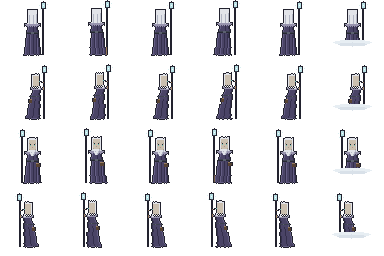
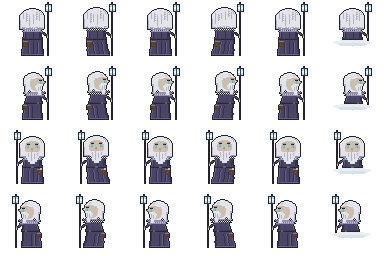
Rebuild the Sky Warden on vanilla chibi proportions
Playtests measured the old warden at about a third of the player's width
(the player's bare head alone is ~28px; the warden's whole coat was ~11px).
Rebuilt with the vanilla character construction: one big hair-mass
silhouette (26px head incl. curtains) with the face painted into it,
19px shoulders flaring to a 23px hem, 48px figure height, sleeve + hand
gripping the (scaled-up) cage lantern staff, stooped profiles, back-view
strand shadows — face and glow details applied after the outline pass.
Icon rebuilt as a chibi head-and-shoulders bust. Sheet layout unchanged
(6x4 walk grid), so no draw-code changes.

Completes v0.3.4: jar builds and the headless integration test passes
with the regenerated resources.

Claude-Session: https://claude.ai/code/session_01ECshWeaHvbw9WiaSm6LA5Y

diff --git a/tools/asset_generator/gen_npcs.py b/tools/asset_generator/gen_npcs.py
@@ -49,32 +49,32 @@ def _warden_frame(facing, step, swim=False):
 
     def draw_staff(px_):
         """Planted walking staff: pole cols px_/px_+1, 7px iron cage lantern."""
-        for y in range(13, feet_y):
+        for y in range(12, feet_y):
             c.put(px_, y, w["staff_hi"])
             c.put(px_ + 1, y, w["staff"])
         left = px_ - 2                          # cage x: left..left+6
-        c.rect(px_, 3, 2, 2, iron["light"])     # finial
+        c.rect(px_, 2, 2, 2, iron["light"])     # finial
         for x in range(left, left + 7):         # top / bottom bars
-            c.put(x, 5, iron["base"])
-            c.put(x, 12, iron["deep"] if x in (left, left + 6) else iron["base"])
-        c.put(left, 5, iron["light"])
-        c.put(left + 6, 5, iron["light"])
-        for y in range(6, 12):                  # glass + three cage posts
+            c.put(x, 4, iron["base"])
+            c.put(x, 11, iron["deep"] if x in (left, left + 6) else iron["base"])
+        c.put(left, 4, iron["light"])
+        c.put(left + 6, 4, iron["light"])
+        for y in range(5, 11):                  # glass + three cage posts
             for x in (left + 1, left + 2, left + 4, left + 5):
                 c.put(x, y, w["lanternglow"])
             for x in (left, left + 3, left + 6):
                 c.put(x, y, iron["base"])
-        c.put(left, 6, iron["light"])
-        c.put(left + 6, 6, iron["light"])
+        c.put(left, 5, iron["light"])
+        c.put(left + 6, 5, iron["light"])
         for x in (left + 1, left + 2, left + 4, left + 5):   # bright core
+            c.put(x, 7, palette.STAIRLIGHT["hi"])
             c.put(x, 8, palette.STAIRLIGHT["hi"])
-            c.put(x, 9, palette.STAIRLIGHT["hi"])
 
     def halo(px_):
         mid = px_ + 1
-        for (hx, hy, a) in ((mid - 6, 7, 140), (mid + 6, 9, 140), (mid - 5, 12, 140),
-                            (mid + 5, 4, 140), (mid - 1, 1, 140), (mid + 2, 14, 140),
-                            (mid - 5, 5, 200), (mid + 5, 11, 200)):
+        for (hx, hy, a) in ((mid - 6, 6, 140), (mid + 6, 8, 140), (mid - 5, 11, 140),
+                            (mid + 5, 3, 140), (mid - 1, 0, 140), (mid + 2, 13, 140),
+                            (mid - 5, 4, 200), (mid + 5, 10, 200)):
             c.put(hx, hy, with_alpha(w["lanternglow"], a))
 
     def coat_frontback(satchel_side):
@@ -131,55 +131,67 @@ def _warden_frame(facing, step, swim=False):
         for dx in range(-10, 11):
             c.put(ccx + dx, 31 + hd, w["feather"])
 
-    def staff_arm(side, pole_x):
-        """Sleeve wedge from the shoulder out to a 3px hand on the pole."""
+    def staff_arm(side):
+        """Sleeve wedge from the shoulder out toward the pole."""
         for i, y in enumerate(range(32, 36)):
             a = side * (9 + i)
-            b = side * (11 + i)
+            b = side * (12 + i)
             for x in range(min(a, b), max(a, b) + 1):
                 c.put(cx + x, y, w["coat_light"] if i == 0 else w["coat"])
             c.put(cx + b, y, w["coat_deep"])     # under-edge of the sleeve
+
+    def staff_hand(side, pole_x):
         hx0 = pole_x if side < 0 else pole_x - 1
-        c.rect(hx0, 36, 3, 2, w["skin"])         # hand gripping the pole
+        c.rect(hx0, 36, 3, 2, w["skin"])         # hand gripping over the pole
 
     # ------------------------------------------------------------------ build
     if facing in ("down", "up"):
-        pole_x = cx - 15 if facing == "down" else cx + 14
+        pole_x = cx - 16 if facing == "down" else cx + 15
+        staff_side = -1 if facing == "down" else 1
         coat_frontback(satchel_side=1 if facing == "down" else -1)
-        staff_arm(-1 if facing == "down" else 1, pole_x)
+        staff_arm(staff_side)
         if facing == "down":                     # hanging hand on the free arm
             c.rect(cx + 8, 40, 2, 2, w["skin"])
         collar(cx)
         # --- head: hair mass -> face opening -> beard mass ---
-        c.ellipse(cx, 18 + hd, 12.8, 9.4, w["hair"])       # 25px hair dome
-        for dx in range(-4, 5):
-            c.put(cx + dx, 8 + hd, w["hair"])              # flatten the crown
+        c.ellipse(cx, 17.5 + hd, 12.8, 10.0, w["hair"])    # 25px hair dome
         for y in range(25 + hd, 28 + hd):                  # jaw band under dome
             for dx in range(-9, 10):
                 c.put(cx + dx, y, w["hair"])
-        for y in range(13 + hd, 28 + hd):                  # curtains: L 5px, R 4px
-            for dx in range(-13, -8):
+        for y in range(13 + hd, 28 + hd):                  # curtains taper out:
+            i = y - 13 - hd                                # L 5px, R 4px wide
+            lo = -10 if i == 0 else (-12 if i == 1 else -13)
+            hi = 10 if i == 0 else (11 if i == 1 else 12)
+            for dx in range(lo, -8):
                 c.put(cx + dx, y, w["hair_shade"] if (dx <= -12 and y > 19 + hd) else w["hair"])
-            for dx in range(9, 13):
+            for dx in range(9, hi + 1):
                 c.put(cx + dx, y, w["hair_shade"] if (dx >= 12 and y > 20 + hd) else w["hair"])
         for y in range(28 + hd, 30 + hd):                  # curtain tips
             for dx in range(-13, -10):
                 c.put(cx + dx, y, w["hair_shade"])
         c.rect(cx + 10, 28 + hd, 3, 1, w["hair_shade"])
+        for (dxx, yy) in ((7, 11), (8, 12), (9, 13), (9, 14)):
+            c.put(cx + dxx, yy + hd, w["hair_shade"])      # dome shade, light TL
         if facing == "down":
             c.ellipse(cx, 19.5 + hd, 8.0, 7.2, w["skin"])  # face opening
             for i, bw in enumerate((7, 7, 7, 7, 6, 6, 5, 5, 4, 4, 2, 2)):
                 for dx in range(-bw, bw + 1):              # long beard mass
                     c.put(cx + dx, 24 + i + hd, w["hair"])
-        else:  # up: no face — vertical strand shadows down the hair sheet
+        else:  # up: no face — broken strand shadows down the hair sheet
             rng = Rng(0x9A44 + step)
-            for dx in (-8, -4, 1, 5, 9):
-                for y in range(12 + hd + rng.range(0, 2), 27 + hd - rng.range(0, 2)):
-                    c.put(cx + dx, y, w["hair_shade"])
-            for dx in range(-9, 10):                       # ragged hair bottom
-                if rng.chance(0.5):
+            for dx in (-9, -6, -3, 1, 4, 7):
+                y0 = 12 + rng.range(0, 3)
+                for y in range(y0, min(27, y0 + rng.range(6, 12))):
+                    c.put(cx + dx, y + hd, w["hair_shade"])
+                    if dx in (-6, 4) and y % 2 == 0:       # thicker mid strands
+                        c.put(cx + dx + 1, y + hd, w["hair_shade"])
+            for dx in range(-10, 11):                      # ragged hair bottom
+                if rng.chance(0.45):
                     c.put(cx + dx, 27 + hd, w["hair_shade"])
+                if rng.chance(0.3):
+                    c.put(cx + dx, 28 + hd, w["hair"])
         draw_staff(pole_x)
+        staff_hand(staff_side, pole_x)
     else:  # right profile, stooped forward
         pole_x = cx + 15
         shoulder_y, belt_y = 30, 38
@@ -214,9 +226,7 @@ def _warden_frame(facing, step, swim=False):
                 c.put(cx + dx + sway_off(55), 55, w["coat_deep"])
         collar(cx + 2)
         # --- head: back-heavy hair mass, face opening at the front ---
-        c.ellipse(cx + 1, 18 + hd, 10.8, 9.2, w["hair"])
-        for dx in range(-2, 5):
-            c.put(cx + dx, 8 + hd, w["hair"])
+        c.ellipse(cx + 1, 17.5 + hd, 10.8, 9.8, w["hair"])
         for y in range(24 + hd, 27 + hd):                  # jaw band
             for dx in range(-5, 3):
                 c.put(cx + dx, y, w["hair"])
@@ -225,15 +235,22 @@ def _warden_frame(facing, step, swim=False):
                 c.put(cx + dx, y, w["hair_shade"] if (dx <= -7 and y > 19 + hd) else w["hair"])
         c.rect(cx - 8, 28 + hd, 3, 2, w["hair_shade"])     # curtain tip
         c.ellipse(cx + 4, 19.5 + hd, 6.8, 7.0, w["skin"])  # face opening
-        c.rect(cx + 11, 17 + hd, 2, 1, w["skin"])          # big hooked nose
+        for dx in range(-3, 10):                           # fringe over the brow
+            c.put(cx + dx, 13 + hd, w["hair"])
+        for dx in range(-3, 3):                            # swept-back part
+            c.put(cx + dx, 14 + hd, w["hair"])
+        c.put(cx + 5, 11 + hd, w["hair_shade"])            # dome shade, light TL
+        c.put(cx + 6, 12 + hd, w["hair_shade"])
+        c.rect(cx + 11, 17 + hd, 3, 1, w["skin"])          # big hooked nose
         c.rect(cx + 11, 18 + hd, 3, 1, w["skin"])
-        c.rect(cx + 12, 19 + hd, 2, 1, w["skin_shade"])
-        for i, (a, b) in enumerate(((6, 11), (4, 11), (3, 10), (4, 10),
+        c.rect(cx + 11, 19 + hd, 2, 1, w["skin_shade"])
+        for i, (a, b) in enumerate(((5, 11), (4, 11), (3, 10), (3, 10), (4, 10),
                                     (4, 10), (5, 9), (5, 9), (6, 8), (6, 8), (6, 8))):
-            for x in range(a, b + 1):                      # beard jutting forward
-                c.put(cx + x, 21 + i + hd, w["hair"])
-        staff_arm(1, pole_x)
+            for x in range(a, b + 1):                      # mustache under the nose,
+                c.put(cx + x, 20 + i + hd, w["hair"])      # beard jutting forward
+        staff_arm(1)
         draw_staff(pole_x)
+        staff_hand(1, pole_x)
 
     c.outline(palette.OUTLINE)
 
@@ -256,18 +273,20 @@ def _warden_frame(facing, step, swim=False):
                 c.put(cx + sx_, y + hd, w["hair_shade"])
         c.put(cx, 22 + hd, w["hair_shade"])                # mustache part
         c.put(cx, 23 + hd, w["hair_shade"])
-        halo(cx - 15)
+        halo(cx - 16)
     elif facing == "up":
-        halo(cx + 14)
+        halo(cx + 15)
     else:
-        for dx in range(5, 10):
+        for dx in range(6, 11):
             c.put(cx + dx, 15 + hd, w["skin_shade"])       # brow shade
-        for dx in range(6, 9):
+        for dx in range(7, 10):
             c.put(cx + dx, 16 + hd, palette.OUTLINE)       # brow bar
-        for dx in (6, 7):
-            c.put(cx + dx, 17 + hd, w["eye"])
+        c.put(cx + 10, 16 + hd, w["skin"])                 # temple above the nose
+        for dx in (8, 9):
+            c.put(cx + dx, 17 + hd, w["eye"])              # eye close to the front
             c.put(cx + dx, 18 + hd, w["eye"])
             c.put(cx + dx, 19 + hd, w["skin_shade"])
+        c.put(cx + 11, 19 + hd, w["skin_shade"])           # nostril
         for (sx_, y0, y1) in ((6, 23, 26), (8, 22, 25)):
             for y in range(y0, y1 + 1):                    # beard streaks
                 c.put(cx + sx_, y + hd, w["hair_shade"])
@@ -388,22 +407,49 @@ def gen_cats(black_path, tabby_path):
 def gen_npc_icons(dir_path):
     w = palette.WARDEN
     c = Canvas(32, 32)
-    # warden bust: hair, face, feather collar
-    c.rect(11, 8, 10, 11, w["skin"])
-    rng = Rng(0x1C0)
-    for x in range(9, 23):
-        c.put(x, 7, w["hair"])
-        if rng.chance(0.6):
-            c.put(x, 6, w["hair"])
-    for x in range(10, 22):
-        c.put(x, 19, w["feather"])
-        c.put(x, 20, w["coat"])
-        c.put(x, 21, w["coat"])
+    # warden bust on chibi proportions: big hair dome + curtains, face
+    # opening, beard over a feather collar and coat shoulders.
+    for x in range(7, 26):                       # coat shoulders
+        c.put(x, 28, w["coat_hi"])
+    c.rect(6, 29, 21, 3, w["coat"])
+    c.rect(6, 29, 2, 3, w["coat_light"])
+    c.rect(25, 29, 2, 3, w["coat_deep"])
+    for y in (25, 26, 27):                       # feather collar
+        for x in range(6, 27):
+            c.put(x, y, w["feather"])
+    for x in range(8, 25):                       # scallop texture row
+        if x % 2 == 0:
+            c.put(x, 25, w["feather_hi"])
+    c.ellipse(16, 13.5, 10.2, 8.2, w["hair"])    # hair dome
+    for y in range(19, 25):                      # jaw band down to the collar
+        for x in range(8, 25):
+            c.put(x, y, w["hair"])
+    for y in range(12, 27):                      # curtains: L 5px, R 4px
+        for x in range(4, 9):
+            c.put(x, y, w["hair_shade"] if (x == 4 and y > 17) else w["hair"])
+        for x in range(24, 28):
+            c.put(x, y, w["hair_shade"] if (x == 27 and y > 18) else w["hair"])
+    for (xx, yy) in ((21, 8), (22, 9), (23, 10)):
+        c.put(xx, yy, w["hair_shade"])           # dome shade, light TL
+    c.ellipse(16, 15.0, 6.6, 6.2, w["skin"])     # face opening
+    for i, bw in enumerate((6, 6, 5, 5, 4, 4, 3, 2)):
+        for dx in range(-bw, bw + 1):            # beard mass over the collar
+            c.put(16 + dx, 19 + i, w["hair"])
     c.outline(palette.OUTLINE)
-    c.put(13, 12, palette.OUTLINE)
-    c.put(18, 12, palette.OUTLINE)
-    c.put(13, 13, w["eye"])
-    c.put(18, 13, w["eye"])
+    # face details after the outline pass
+    for x in list(range(10, 14)) + list(range(19, 23)):
+        c.put(x, 11, w["skin_shade"])            # hooded brow shade
+    for x in list(range(11, 14)) + list(range(19, 22)):
+        c.put(x, 12, palette.OUTLINE)            # heavy brow bars
+    for x in (11, 12, 20, 21):
+        c.put(x, 13, w["eye"])                   # bright 2x2 eyes
+        c.put(x, 14, w["eye"])
+        c.put(x, 15, w["skin_shade"])            # under-eye bags
+    c.rect(15, 13, 2, 3, w["skin"])              # nose bridge
+    c.rect(15, 16, 2, 2, w["skin_shade"])        # nose tip
+    for (sx_, y0, y1) in ((12, 20, 22), (14, 21, 24), (19, 20, 23)):
+        for y in range(y0, y1 + 1):              # beard streaks
+            c.put(sx_, y, w["hair_shade"])
     c.save(f"{dir_path}/skywarden.png")
 
     for name, colors in (("spirecatblack", palette.CAT_BLACK), ("spirecattabby", palette.CAT_TABBY)):
